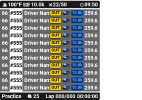
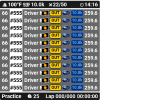
Added Black Flag indicator to Relative overlay

Changed region(s): [[0.2817, 0.33, 0.3662, 0.93], [0.2817, 0.09, 0.3662, 0.3], [0.5915, 0.0, 0.7042, 0.09]]

diff --git a/Overlays/benofficial2 - iRacing Relative/JavascriptExtensions/Relative.js b/Overlays/benofficial2 - iRacing Relative/JavascriptExtensions/Relative.js
@@ -110,6 +110,18 @@ function getRelativeIsOutLap(index)
     }
 }
 
+function getRelativeSessionFlags(index)
+{
+    if (index == 0)
+    {
+        return isnull($prop('DataCorePlugin.GameRawData.Telemetry.SessionFlags'), 0);
+    }
+    else
+    {
+        return getRelativeProp(index, 'SessionFlags');
+    }
+}
+
 function getRelativeName(index)
 {
     if (index == 0 || g_UseSimHubProp)

diff --git a/Plugin/Modules/Relative.cs b/Plugin/Modules/Relative.cs
@@ -56,6 +56,7 @@ namespace benofficial2.Plugin
         public string GapToPlayerCombined { get; set; } = string.Empty;
         public double CurrentLapHighPrecision { get; set; } = 0;
         public TimeSpan LastLapTime { get; set; } = TimeSpan.Zero;
+        public int SessionFlags { get; set; } = 0;
     }
 
     public class RelativeAhead
@@ -131,6 +132,7 @@ namespace benofficial2.Plugin
                 plugin.AttachDelegate(name: $"Relative.{aheadBehind}{rowIdx:00}.GapToPlayerCombined", valueProvider: () => row.GapToPlayerCombined);
                 plugin.AttachDelegate(name: $"Relative.{aheadBehind}{rowIdx:00}.CurrentLapHighPrecision", valueProvider: () => row.CurrentLapHighPrecision);
                 plugin.AttachDelegate(name: $"Relative.{aheadBehind}{rowIdx:00}.LastLapTime", valueProvider: () => row.LastLapTime);
+                plugin.AttachDelegate(name: $"Relative.{aheadBehind}{rowIdx:00}.SessionFlags", valueProvider: () => row.SessionFlags);
             }
         }
 
@@ -179,6 +181,7 @@ namespace benofficial2.Plugin
                 row.GapToPlayerCombined = opponent.GapToPlayerCombined;
                 row.CurrentLapHighPrecision = opponent.CurrentLapHighPrecision ?? 0;
                 row.LastLapTime = driver.LastLapTime;
+                row.SessionFlags = driver.SessionFlags;
             }
         }
 
@@ -204,6 +207,7 @@ namespace benofficial2.Plugin
             row.GapToPlayerCombined = string.Empty;
             row.CurrentLapHighPrecision = 0;
             row.LastLapTime = TimeSpan.Zero;
+            row.SessionFlags = 0;
         }
         public bool IsValidRow(Opponent opponent)
         {

diff --git a/Plugin/Modules/Driver.cs b/Plugin/Modules/Driver.cs
@@ -50,6 +50,7 @@ namespace benofficial2.Plugin
         public TimeSpan LastLapTime { get; set; } = TimeSpan.Zero;
         public TimeSpan BestLapTime { get; set; } = TimeSpan.Zero;
         public int JokerLapsComplete { get; set; } = 0;
+        public int SessionFlags { get; set; } = 0;
     }
 
     public class ClassLeaderboard
@@ -376,6 +377,9 @@ namespace benofficial2.Plugin
                 double bestLapTime = 0;
                 try { bestLapTime = Math.Max(0, (double)raw.Telemetry["CarIdxBestLapTime"][carIdx]); } catch { Debug.Assert(false); }
 
+                int sessionFlags = 0;
+                try { sessionFlags = int.Parse(raw.Telemetry["CarIdxSessionFlags"][carIdx]); } catch { Debug.Assert(false); }
+
                 if (carIdx >= 0 && carNumber.Length > 0)
                 {
                     if (!Drivers.TryGetValue(carNumber, out Driver driver))
@@ -390,6 +394,7 @@ namespace benofficial2.Plugin
                     driver.CarId = carPath;
                     driver.LastLapTime = lastLapTime > 0 ? TimeSpan.FromSeconds(lastLapTime) : TimeSpan.Zero;
                     driver.BestLapTime = bestLapTime > 0 ? TimeSpan.FromSeconds(bestLapTime) : TimeSpan.Zero;
+                    driver.SessionFlags = sessionFlags;
                 }
                 else
                 {
